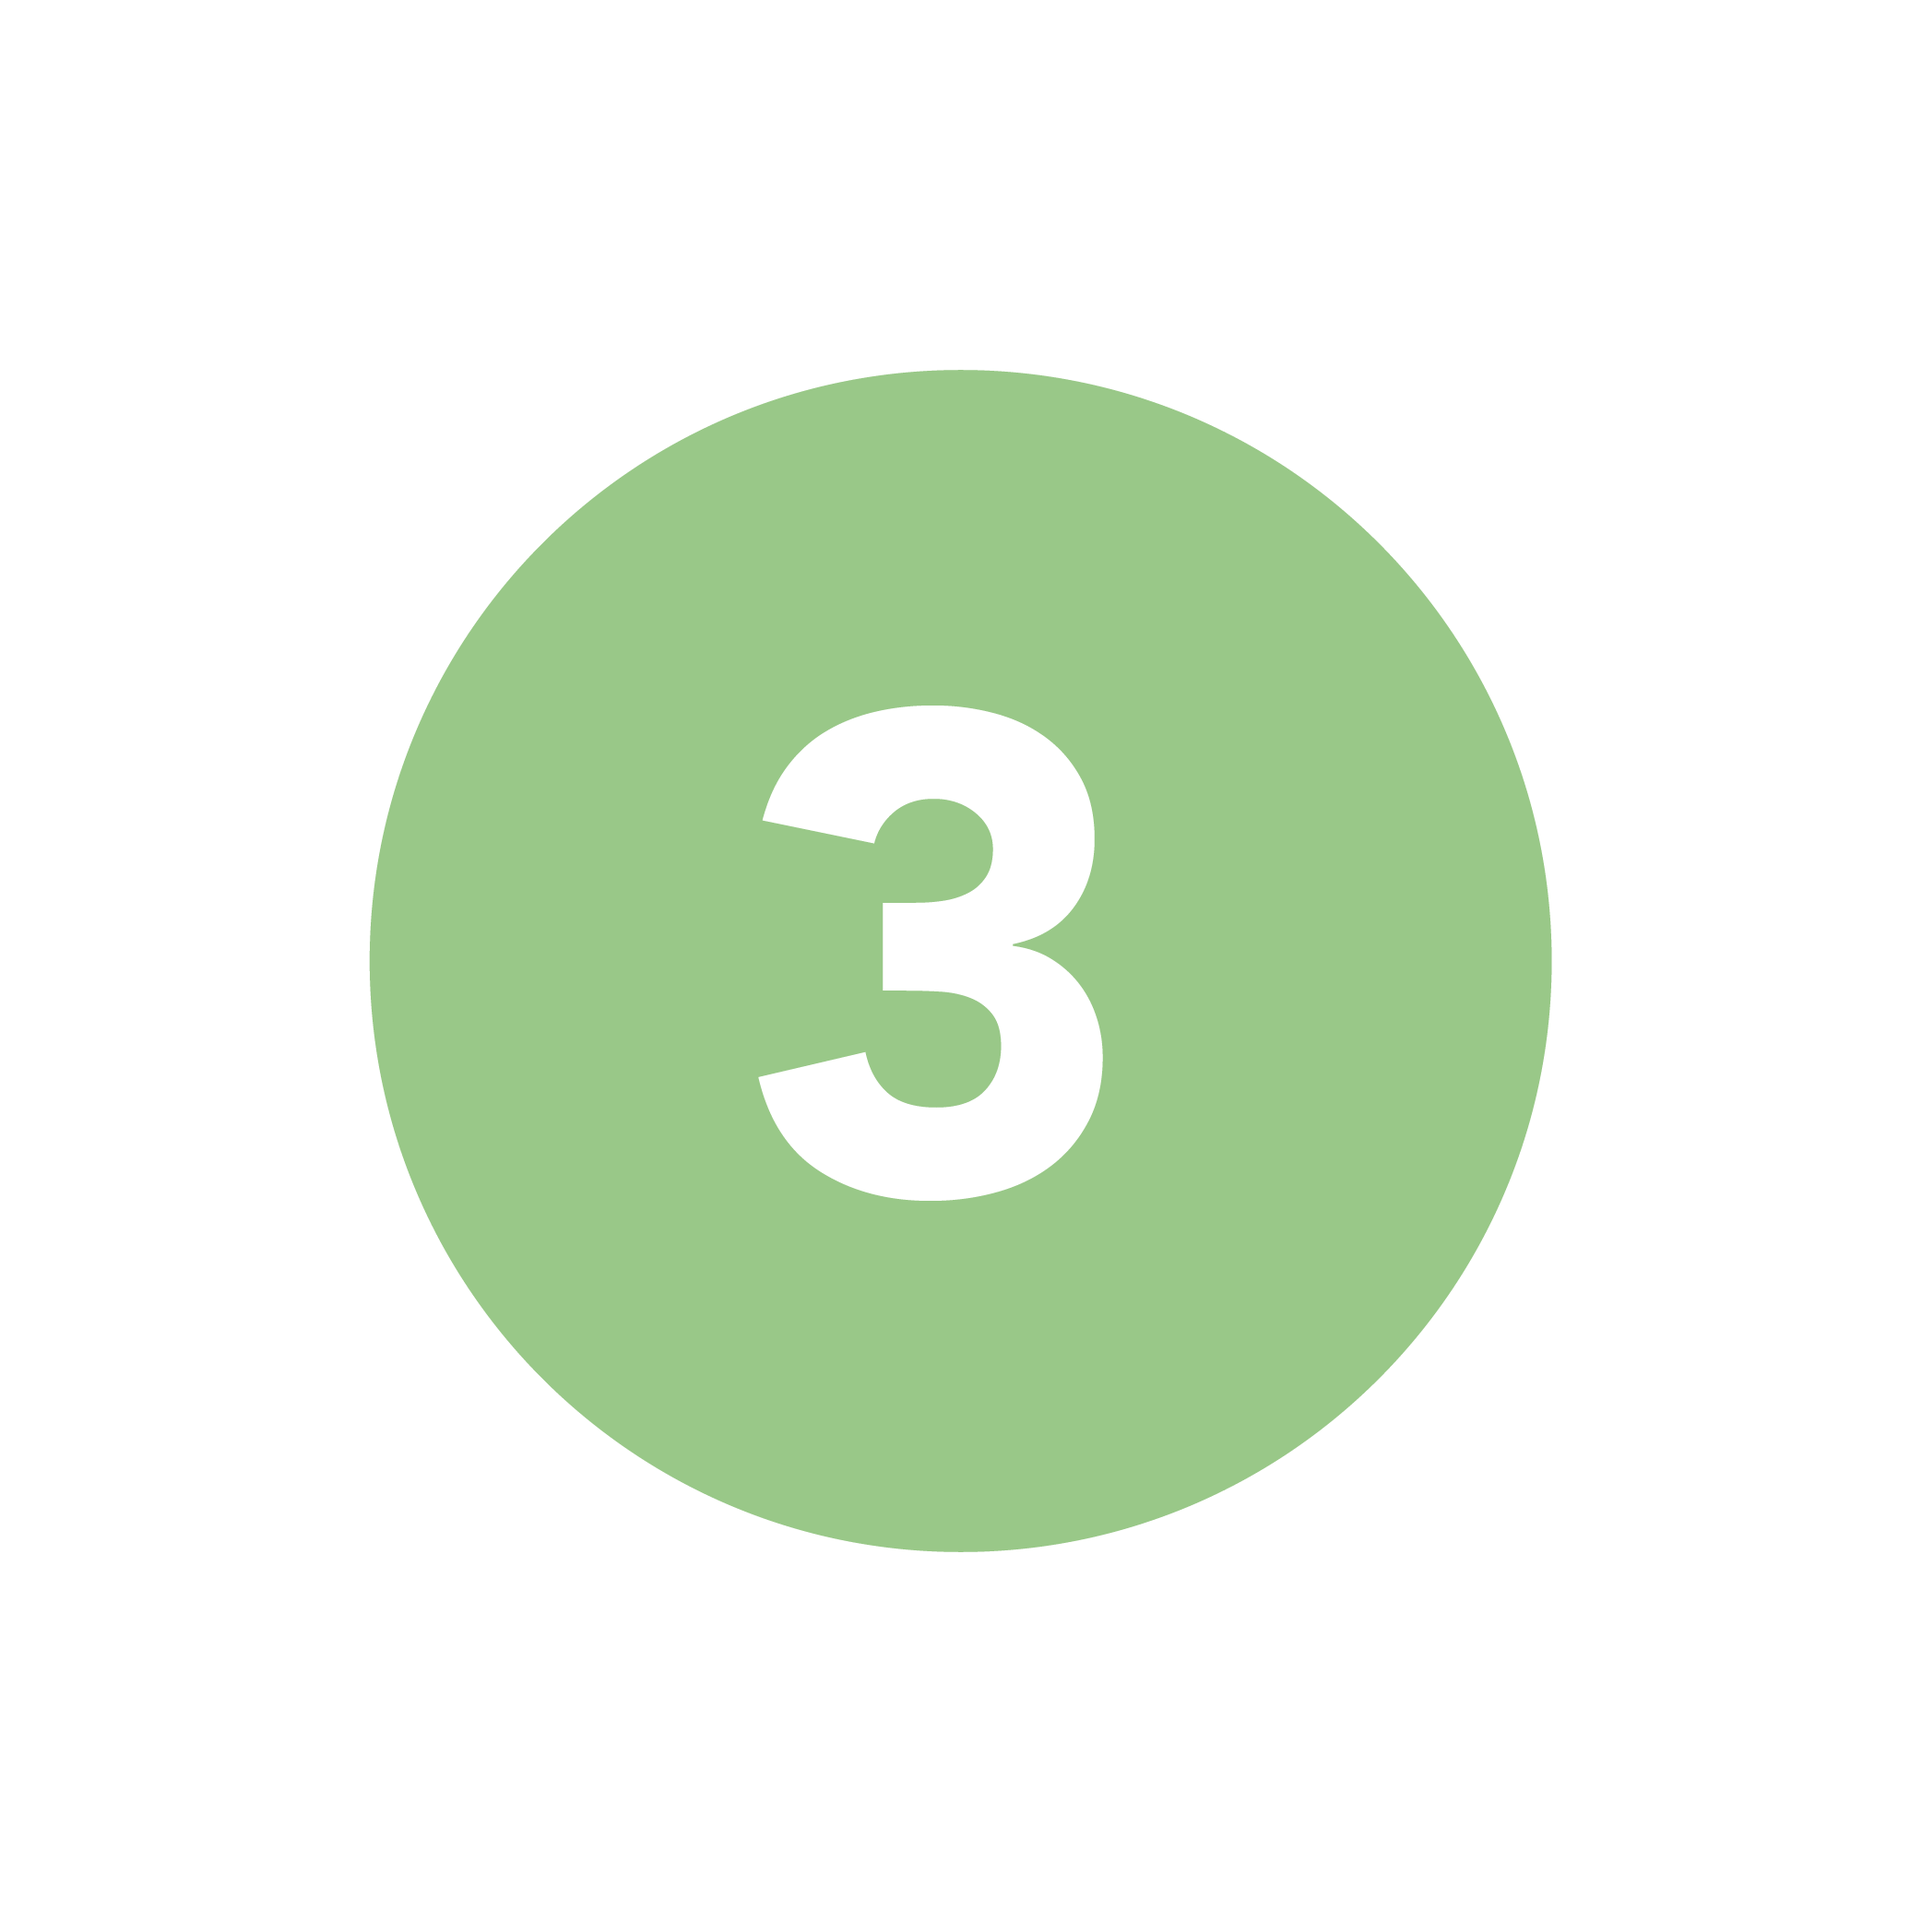
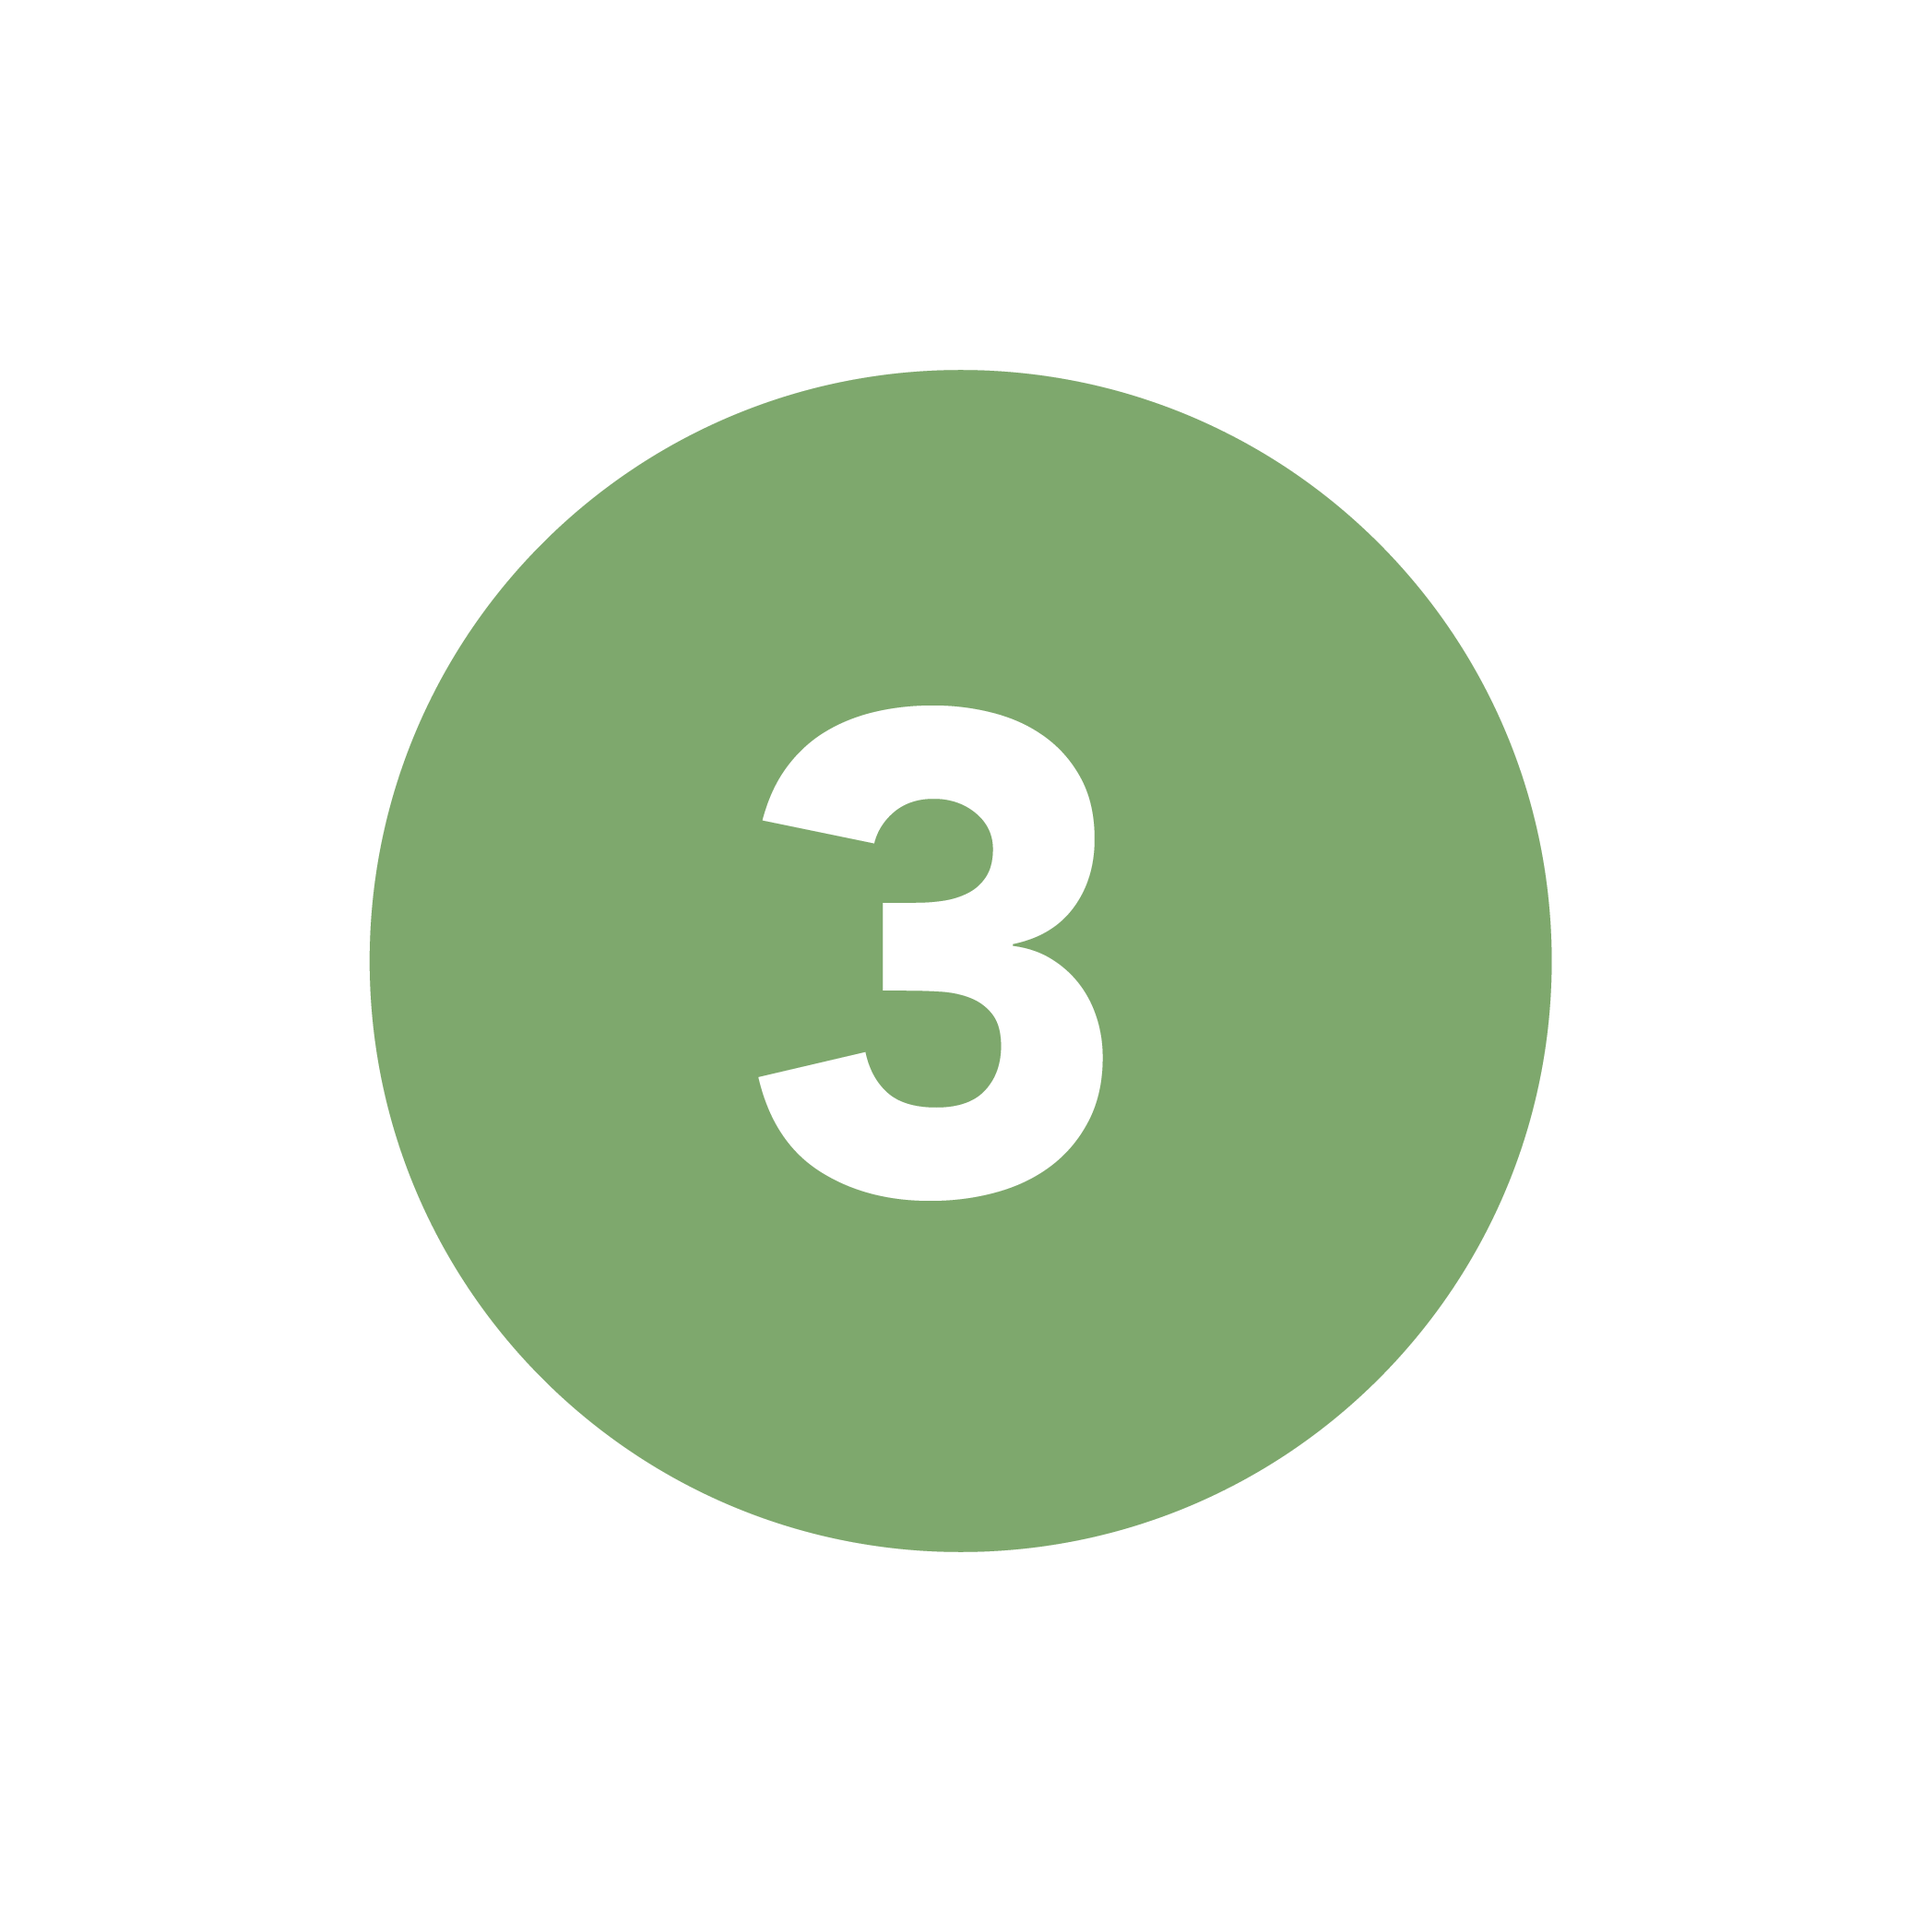
0120-2

Changed region(s): [[0.1871, 0.1871, 0.8109, 0.8109]]

diff --git a/css/style.css b/css/style.css
@@ -919,11 +919,11 @@ filter: progid:DXImageTransform.Microsoft.gradient( startColorstr='#ffffff', end
 
 
 .sushi_train_color{
-	color: #99C888;
+	color: #7EA86D;
 }
 
 #sushi_train_page .fa-caret-right{
-	color: #99C888;
+	color: #7EA86D;
 }
 
 
